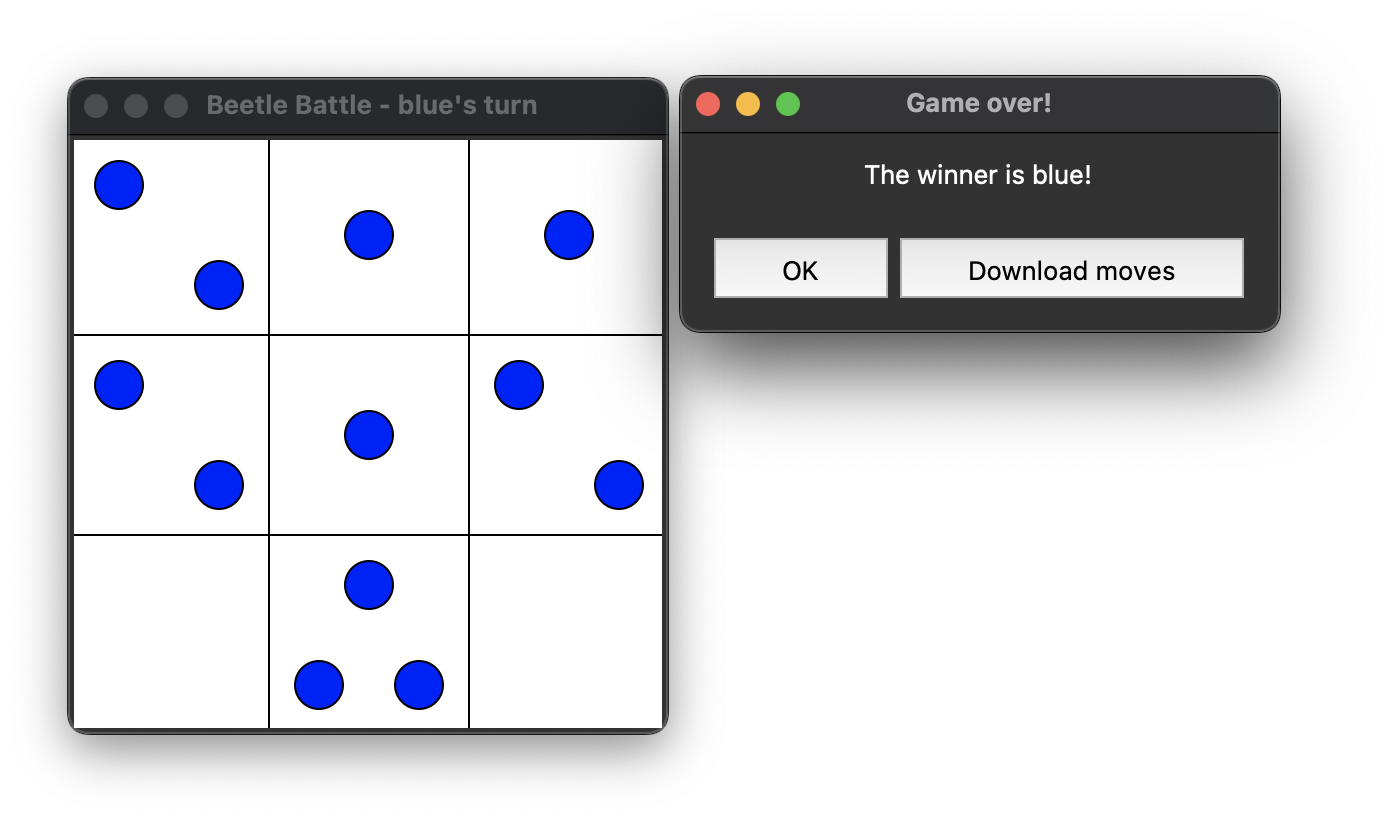
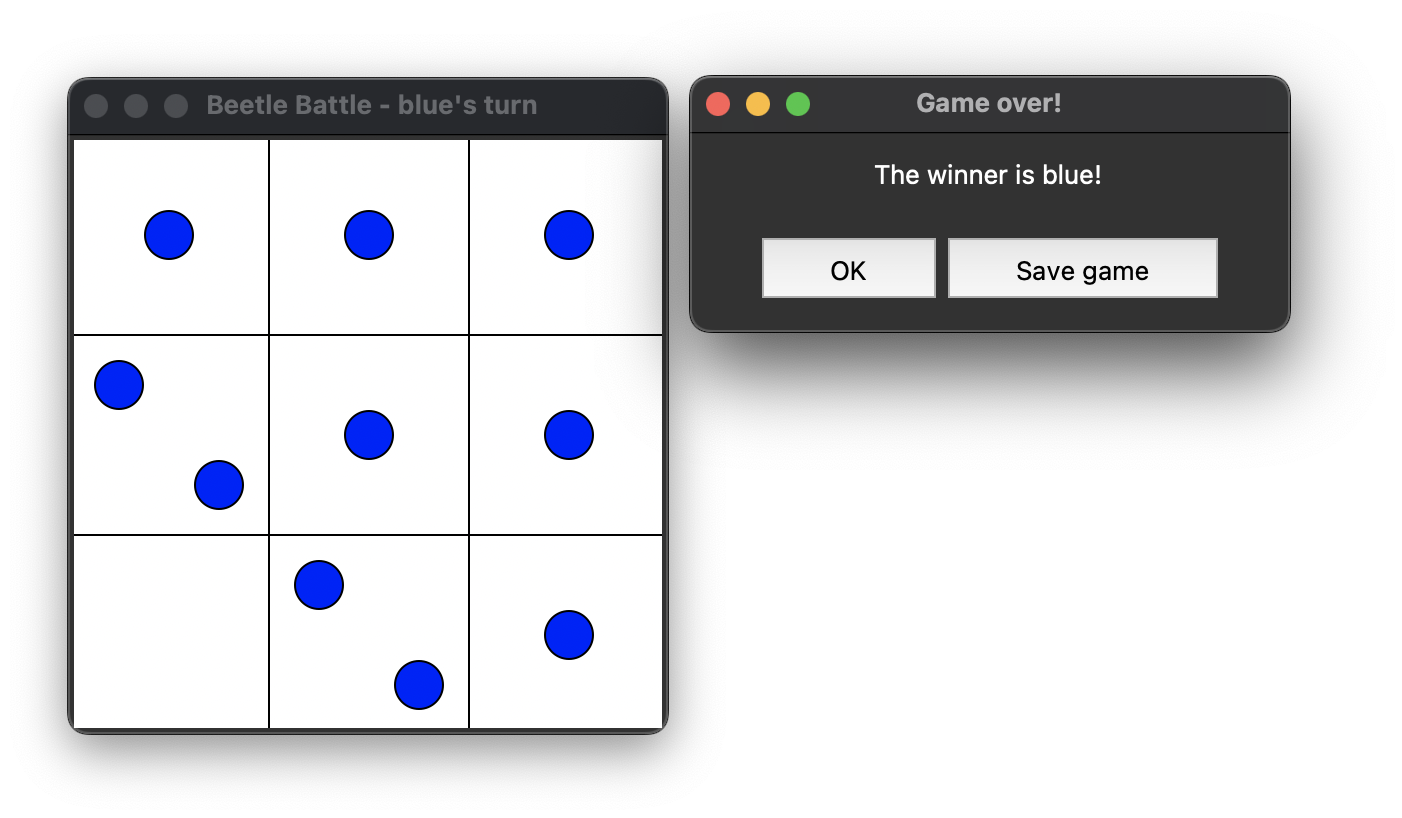
Manual update

diff --git a/game_gui.py b/game_gui.py
@@ -332,12 +332,12 @@ class GameGui:
                 self.canvas.itemconfig(self.rectangles[index], fill="light gray")
 
    # -----------------------------------------------------------------------------
-    # Method: download_moves
-    # This method downloads the moves to a CSV file.
+    # Method: save_game
+    # This method saves the game by saving the moves to a CSV file.
     # The format is as follows:
     #   move_number, color, row, column
     # -----------------------------------------------------------------------------
-    def download_moves(self, calling_window):
+    def save_game(self, calling_window):
 
         # Create a CSV string from the moves.
         csv_data = [("move_number", "color", "row", "column")]  # Start with the header
@@ -437,9 +437,9 @@ class GameGui:
                 command=lambda: [message_window.destroy(), self.new_game()], 
                 padx=20, pady=5).pack(side=tk.LEFT)
 
-        # Add a "Download moves" button, assuming you have a method self.download_moves
-        tk.Button(button_frame, text="Download moves", 
-                command=lambda: [self.download_moves(message_window)], 
+        # Add a "Save game" button, assuming you have a method self.download_moves
+        tk.Button(button_frame, text="Save game", 
+                command=lambda: [self.save_game(message_window)], 
                 padx=20, pady=5).pack(side=tk.LEFT)
         
         # Capture the window close (X) button click as well

diff --git a/manual/manual.md b/manual/manual.md
@@ -5,11 +5,11 @@ Beetle Battle is a turn based board game.
 
 ### Dimension
 
-The board comprises NxN squares, with N being 3, 4, 5 or 10 as shown in the figures below.
+The board has a certain _dimension_ which can be 3, 4, 5 or 10. The dimension determins the grid of squares as shown in the figures below.
 
 <img src="./fig_06.png" height="200"><img src="./fig_07.png" height="200"><img src="./fig_08.png" height="200"><img src="./fig_09.png" height="200">
 
-The dimension can be selected in the menu under the Board menu item.
+The dimension can be selected in the menu under the "Board" menu item.
 
 ### Squares
 Squares are identified by their _row_ and _column_ as illustrated in the figure below.
@@ -26,7 +26,8 @@ A square has a certain _capacity_ which is defined by the number of adjacent squ
 The capacity indicates when the beetles will jump out of the square as will be described further below (see "[Jumping beetles](#jumping-beetles)").
 
 ## Making a move
-A beetle can be placed on an empty square or a square containing beetles of the same color.
+A beetle can be placed on an empty square or a square containing beetles of the same color. To make it easier, the squares on which no beetle can be placed are greyed-out as shown in the screenshot below where it is blue's turn.
+<img src="./fig_10.png" height="300">
 
 ## Jumping beetles
 When placing a beetle on a square and the number of beetles becomes the same as the capacity of the square, all beetles will jump to the adjacent tiles, one beetle to each adjacent tile as illustrated in the figures below where a red beetle is placed on square (1,1) in the left figure, resulting in the beetles jumping to the adjacent squares resulting in the right figure.
@@ -42,3 +43,26 @@ Pressing "OK" will start a new game.
 
 ### Save game
 When the game end and the winner is announced, pressing "Save game" will create a CSV file with the moves and opens the file dialog to select the name of the file and location where to save it.
+
+An example of the content of such a file is given below.
+
+```
+dimension: 3
+winner: blue
+
+move_number,color,row,column
+1,red,0,0
+2,blue,2,2
+3,red,0,1
+4,blue,1,2
+5,red,1,1
+6,blue,2,1
+7,red,1,0
+8,blue,2,1
+9,red,1,0
+10,blue,2,1
+11,red,0,2
+12,blue,1,2
+13,red,0,2
+14,blue,0,1
+```
